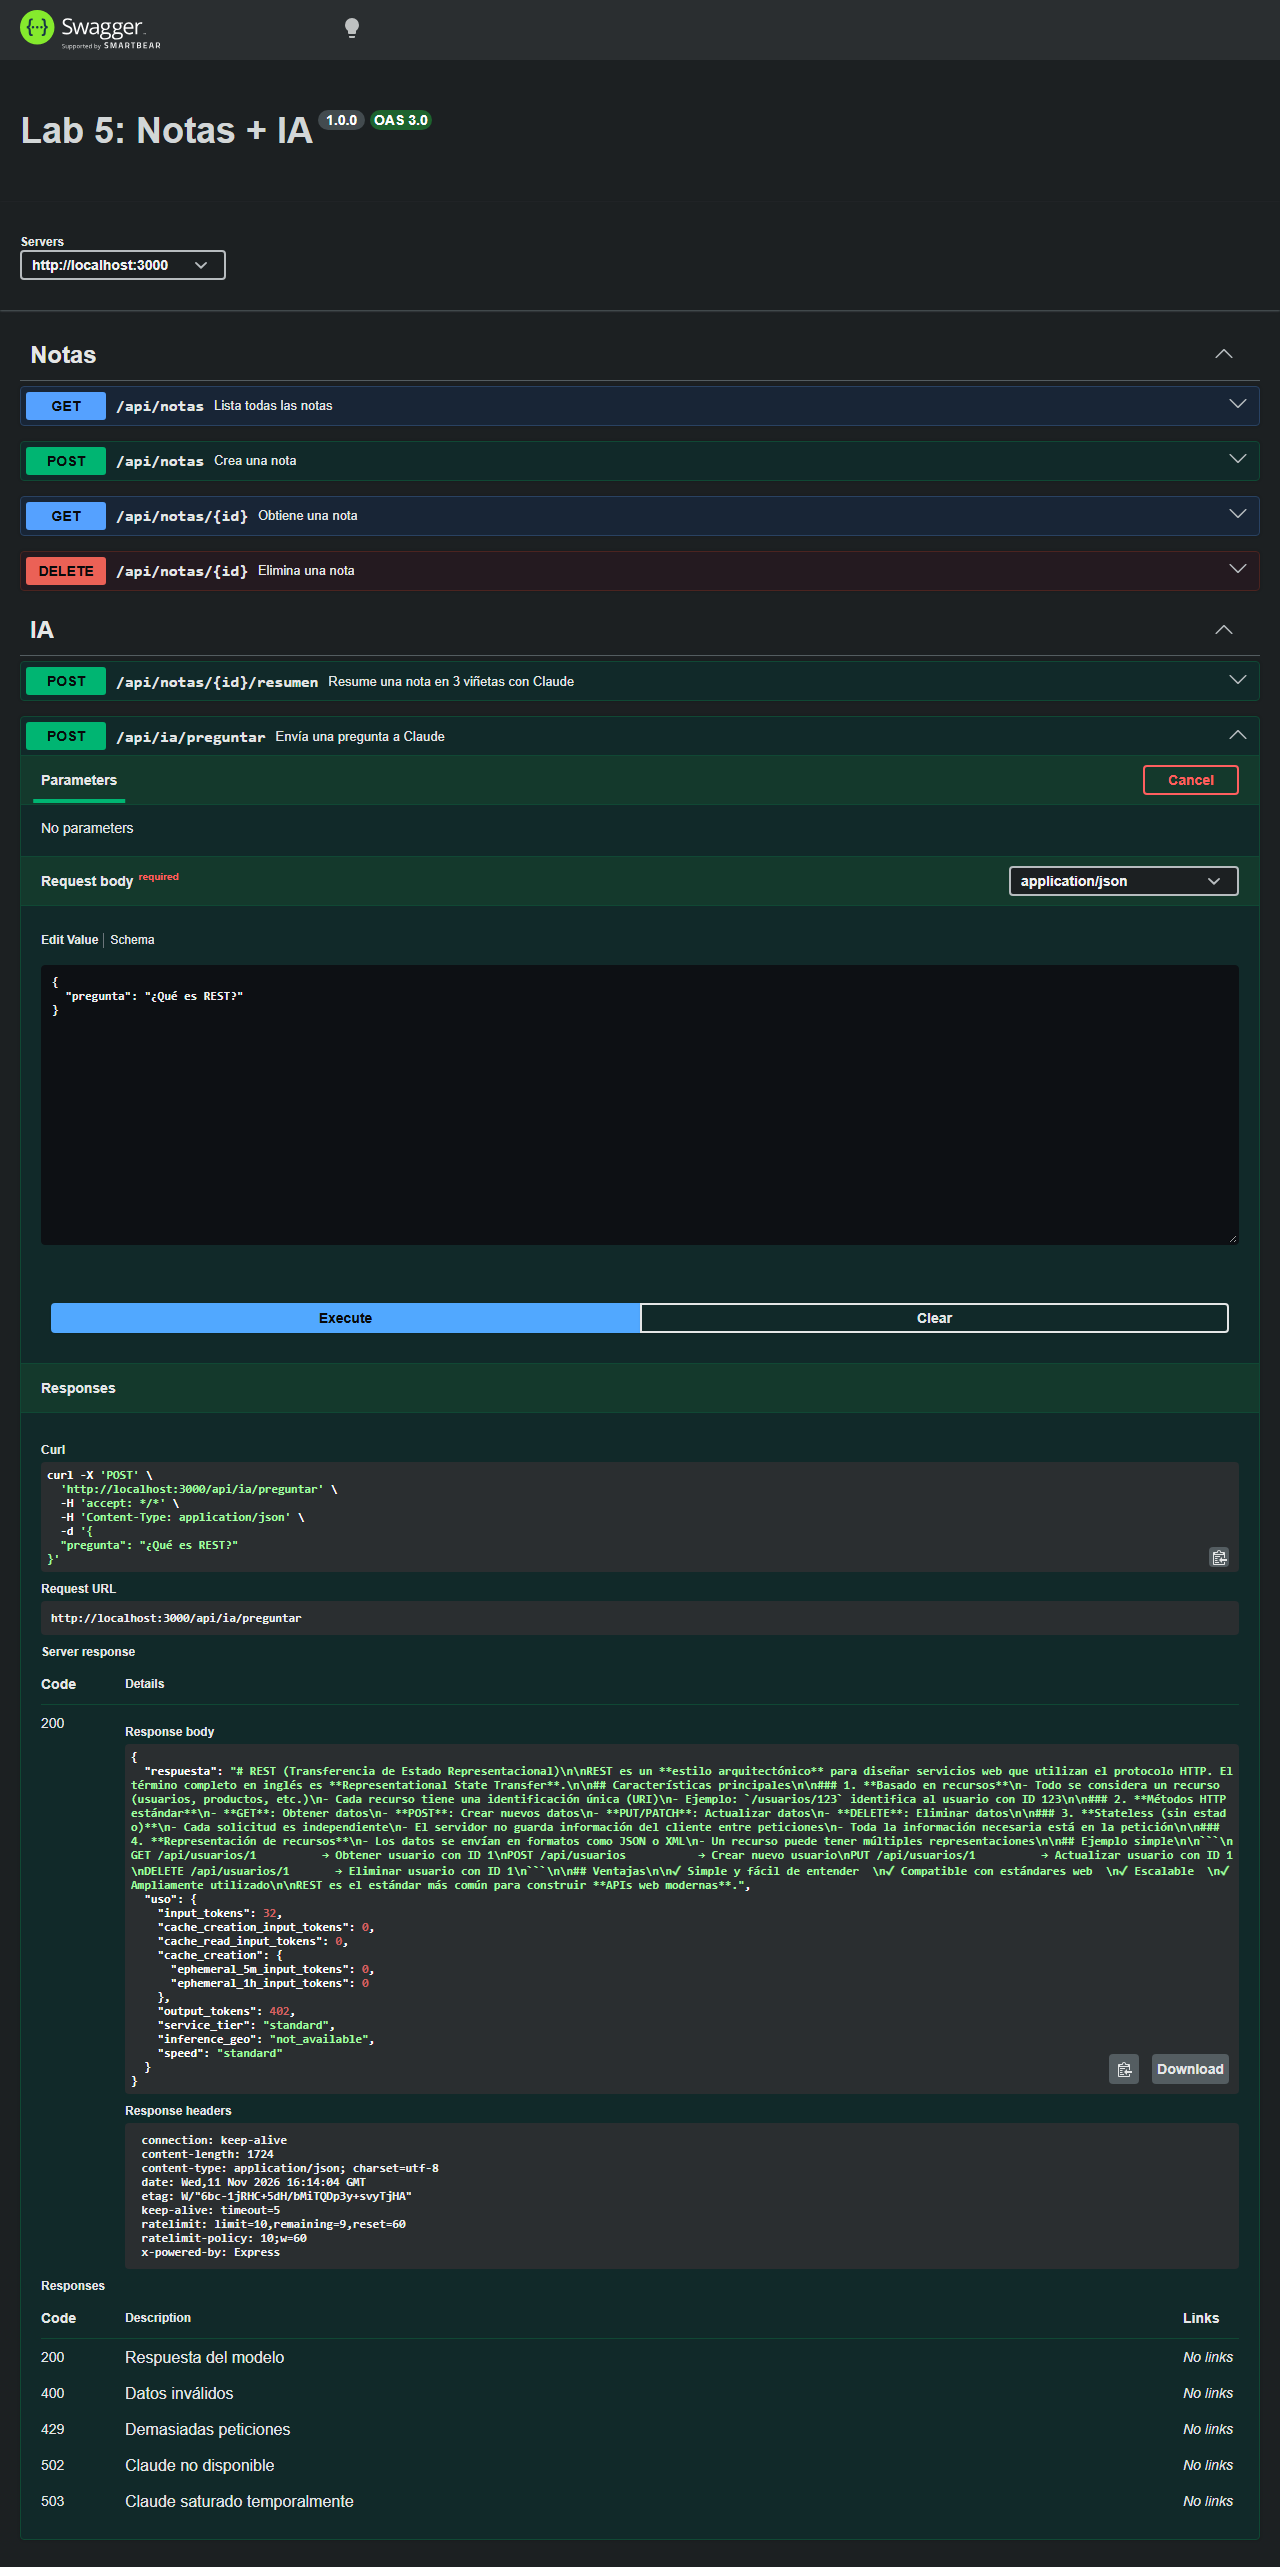
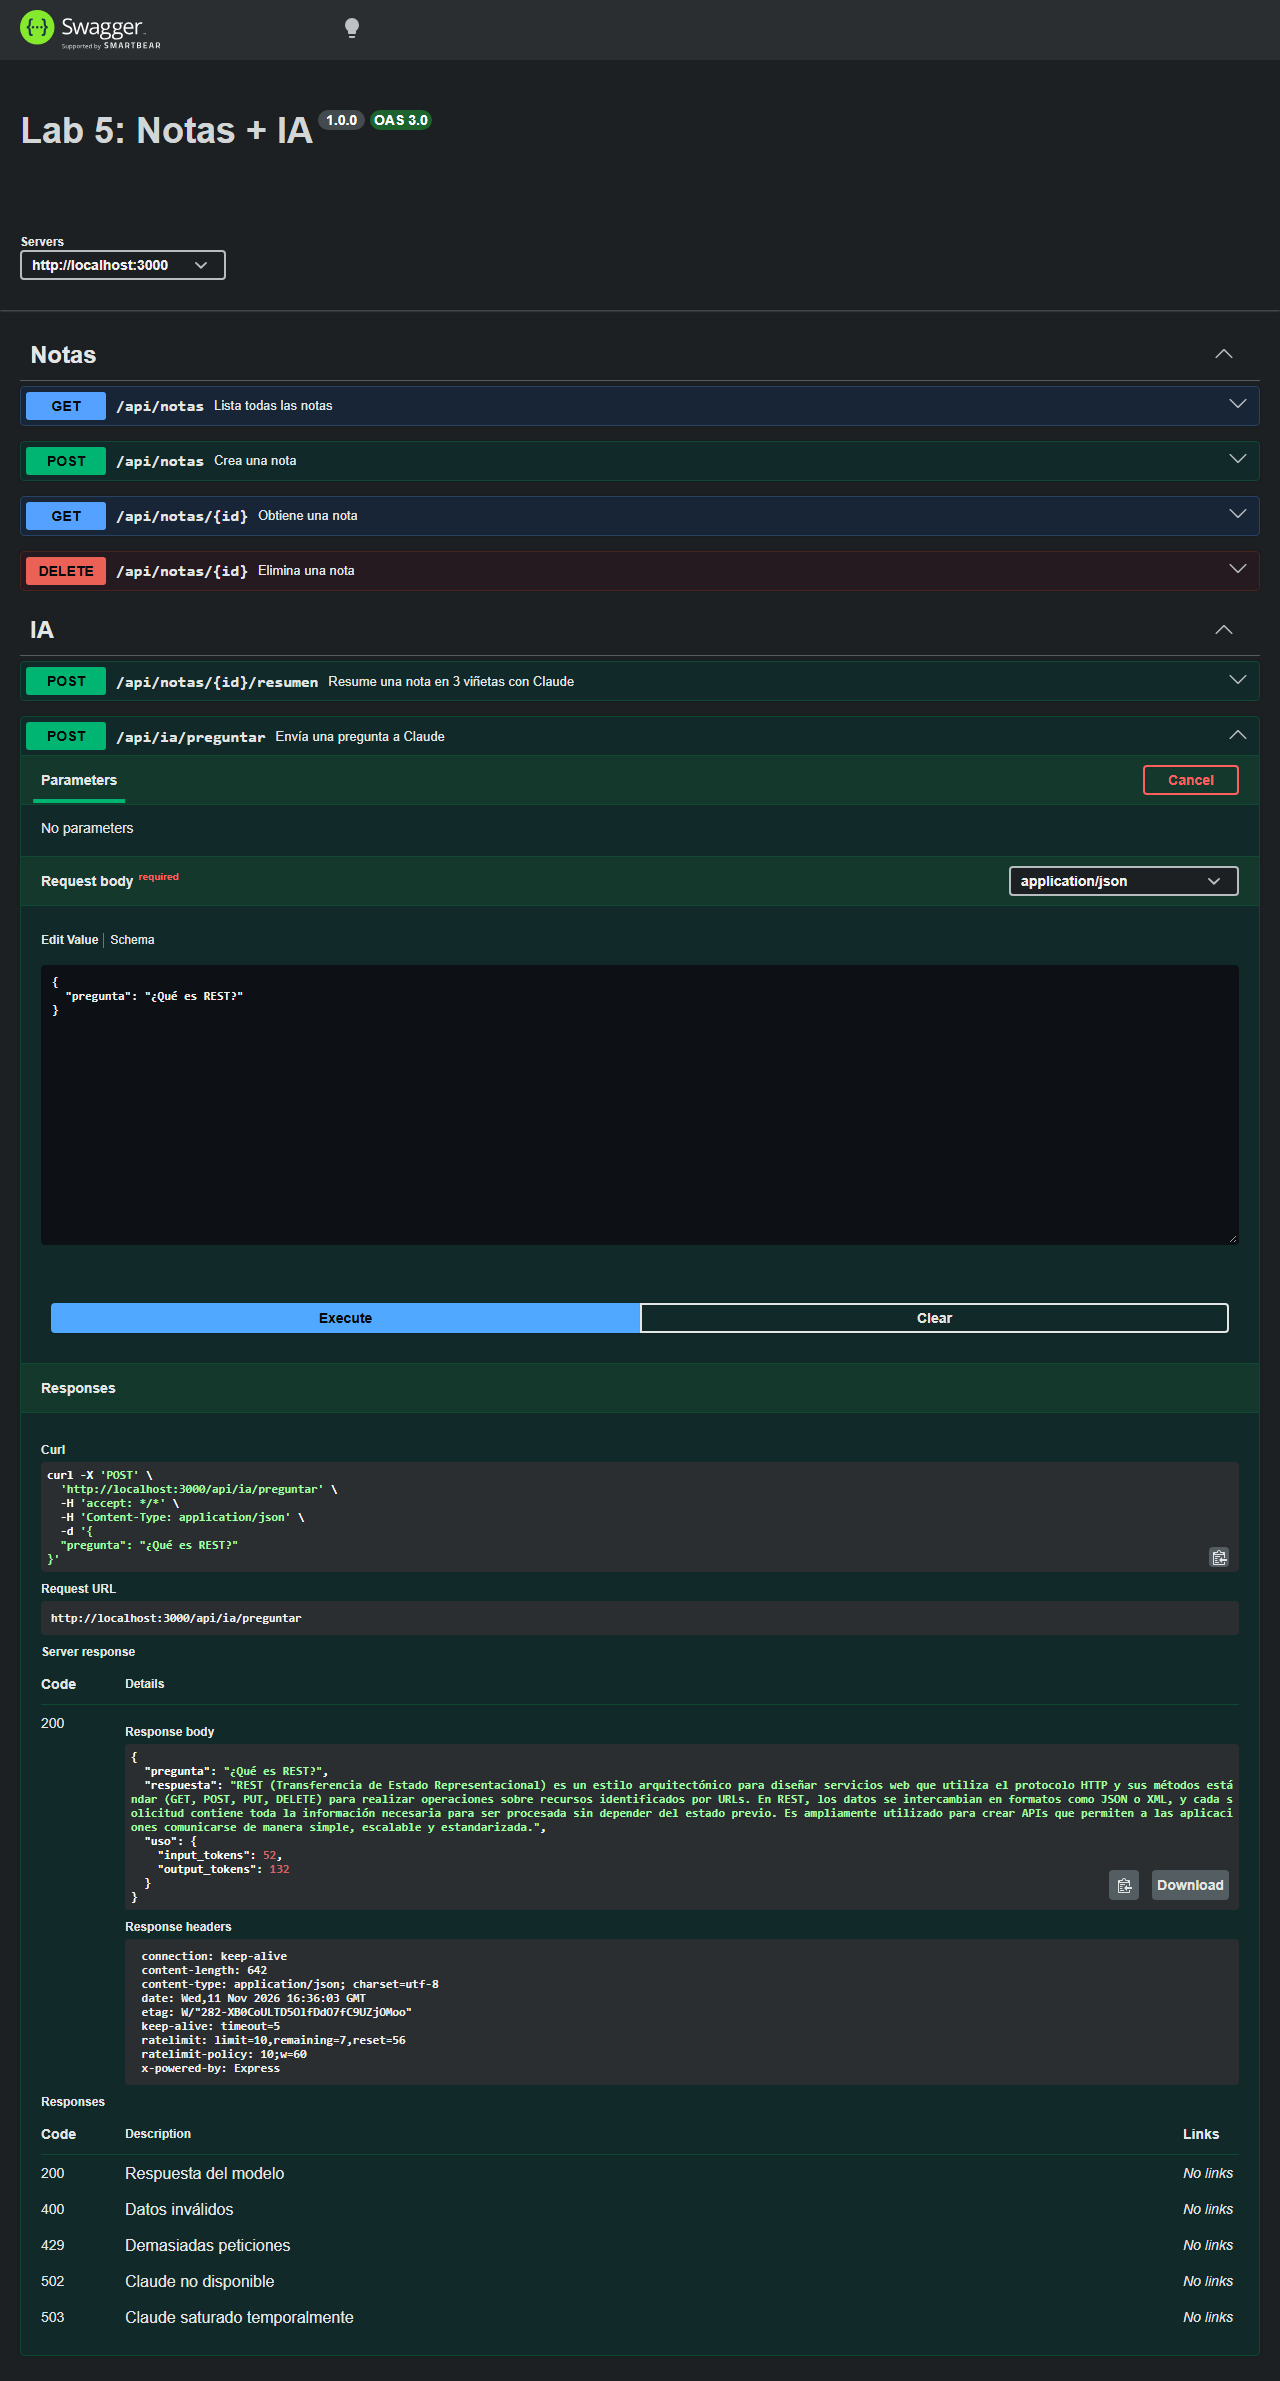
Simplifica la respuesta de preguntar: pregunta, respuesta breve y uso

diff --git a/src/services/claude.service.js b/src/services/claude.service.js
@@ -17,12 +17,19 @@ async function preguntar(texto, system) {
   const msg = await getClient().messages.create({
     model: process.env.CLAUDE_MODEL,
     max_tokens: 1024,
-    system: system ?? 'Eres un asistente útil. Responde en español.',
+    system: system ??
+      'Eres un asistente útil. Responde en español con un máximo de tres frases, en texto plano, sin Markdown ni listas.',
     messages: [{ role: 'user', content: texto }],
   });
 
   const bloque = msg.content.find((b) => b.type === 'text');
-  return { respuesta: bloque?.text ?? '', uso: msg.usage };
+  return {
+    respuesta: bloque?.text ?? '',
+    uso: {
+      input_tokens: msg.usage.input_tokens,
+      output_tokens: msg.usage.output_tokens,
+    },
+  };
 }
 
 module.exports = { preguntar };

diff --git a/test/api.test.js b/test/api.test.js
@@ -88,8 +88,11 @@ test('POST /api/ia/preguntar responde 200 con respuesta y uso de tokens', async 
     .post('/api/ia/preguntar')
     .send({ pregunta: '¿Qué es REST?' });
   assert.equal(res.status, 200);
-  assert.equal(res.body.respuesta, 'respuesta simulada');
-  assert.deepEqual(res.body.uso, { input_tokens: 10, output_tokens: 20 });
+  assert.deepEqual(res.body, {
+    pregunta: '¿Qué es REST?',
+    respuesta: 'respuesta simulada',
+    uso: { input_tokens: 10, output_tokens: 20 },
+  });
   assert.equal(llamadas[0].texto, '¿Qué es REST?');
 });
 

diff --git a/src/routes/ia.routes.js b/src/routes/ia.routes.js
@@ -28,8 +28,9 @@ const preguntaSchema = z.object({
  *       503: { description: Claude saturado temporalmente }
  */
 router.post('/preguntar', limiteIA(), validar(preguntaSchema), async (req, res) => {
-  const r = await claude.preguntar(req.body.pregunta);
-  res.json(r);
+  const { pregunta } = req.body;
+  const r = await claude.preguntar(pregunta);
+  res.json({ pregunta, respuesta: r.respuesta, uso: r.uso });
 });
 
 module.exports = router;

diff --git a/README.md b/README.md
@@ -56,7 +56,7 @@ El archivo `.env` está en `.gitignore` y no se sube. `.env.example` sí se sube
 | GET | `/api/notas/:id` | Obtiene una nota | No |
 | POST | `/api/notas` | Crea una nota (`titulo`, `contenido`) | No |
 | DELETE | `/api/notas/:id` | Elimina una nota | No |
-| POST | `/api/ia/preguntar` | Envía una pregunta libre al modelo | Sí |
+| POST | `/api/ia/preguntar` | Envía una pregunta libre al modelo y devuelve `pregunta`, `respuesta` y `uso` | Sí |
 | POST | `/api/notas/:id/resumen` | Resume una nota en 3 viñetas | Sí |
 | GET | `/api-docs` | Documentación interactiva (Swagger UI) | No |
 
@@ -170,10 +170,10 @@ Responde `502` con `{ "error": "IA_NO_DISPONIBLE" }`, y el 401 original con su m
 
 | Pregunta enviada a `POST /api/ia/preguntar` | `input_tokens` | `output_tokens` |
 |---|---|---|
-| «Explica en dos frases qué es un JSON.» | 36 | 79 |
-| «¿Qué es REST?» | 32 | 387 |
+| «Explica en dos frases qué es un JSON.» | 56 | 89 |
+| «¿Qué es REST?» | 52 | 110 |
 
-Las dos preguntas pesan casi lo mismo de entrada, pero la segunda costó casi cinco veces más de salida porque no le pusimos límite de longitud y el modelo respondió con títulos, listas y un ejemplo. Lo que más pesa en el costo es la salida.
+En las dos, la salida pesa más que la entrada. La instrucción de `system` pide responder en un máximo de tres frases y en texto plano: antes de ponerla, la misma pregunta «¿Qué es REST?» devolvía títulos, listas y un ejemplo y gastaba 387 tokens de salida con solo 32 de entrada. El `system` más largo sube un poco la entrada (de 32 a 52), pero baja mucho la salida.
 
 El parámetro que limita el costo de la respuesta es `max_tokens` (aquí 1024): el modelo no puede generar más tokens de salida que ese número. El costo de entrada lo limitamos con la validación, que no deja pasar preguntas de más de 2000 caracteres ni notas de más de 5000. También influye `CLAUDE_MODEL`, porque cada modelo tiene un precio por token distinto.
 
